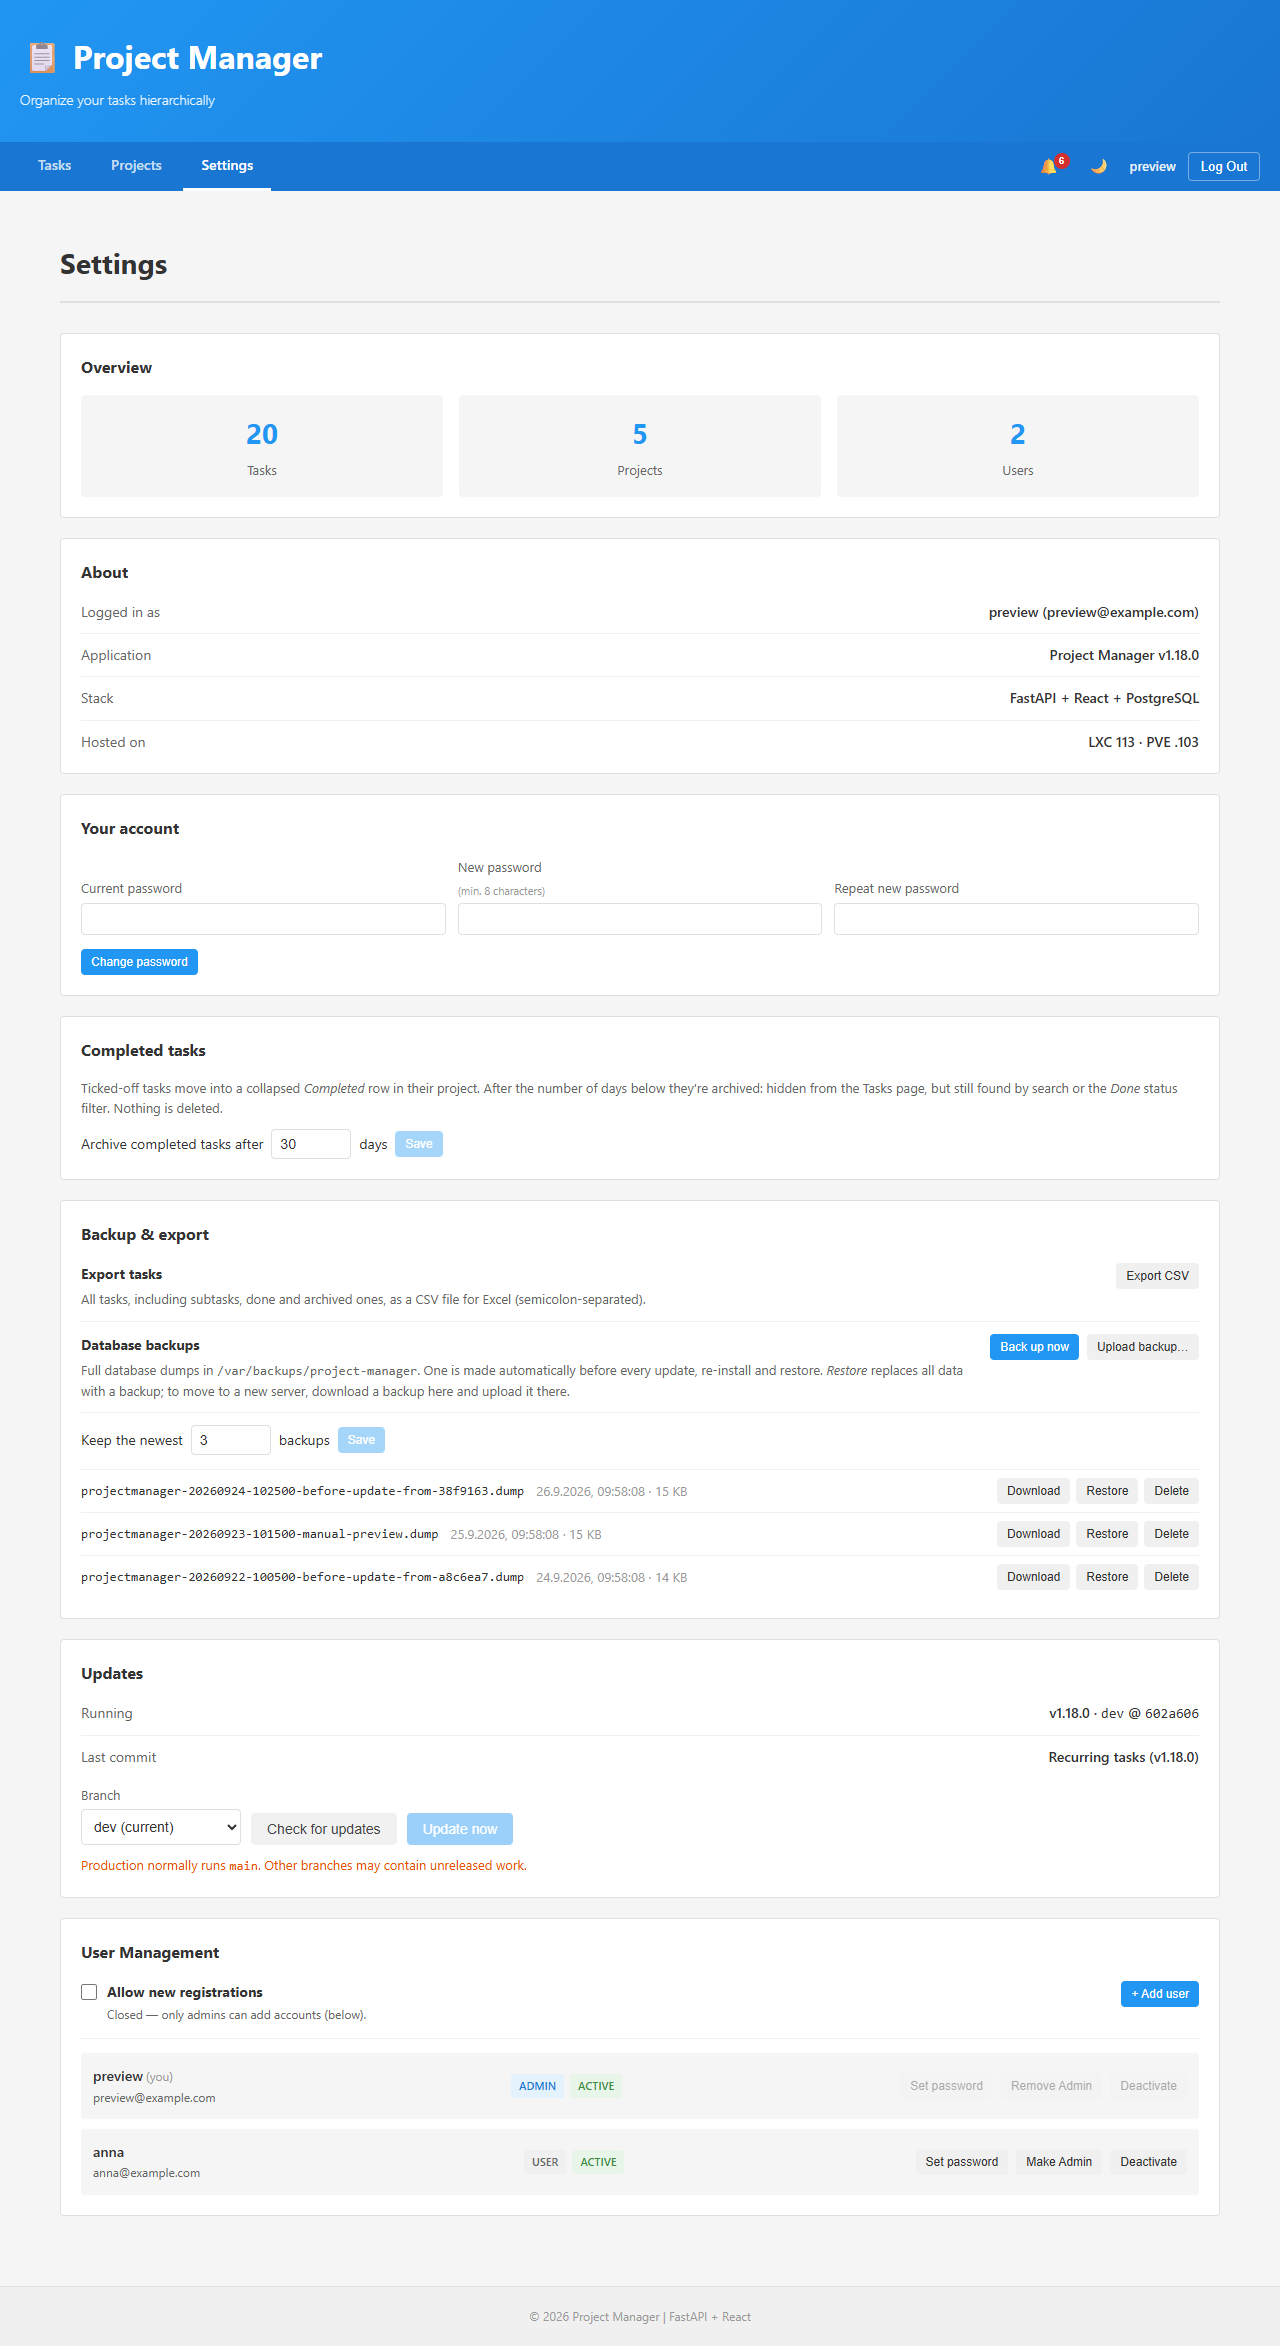
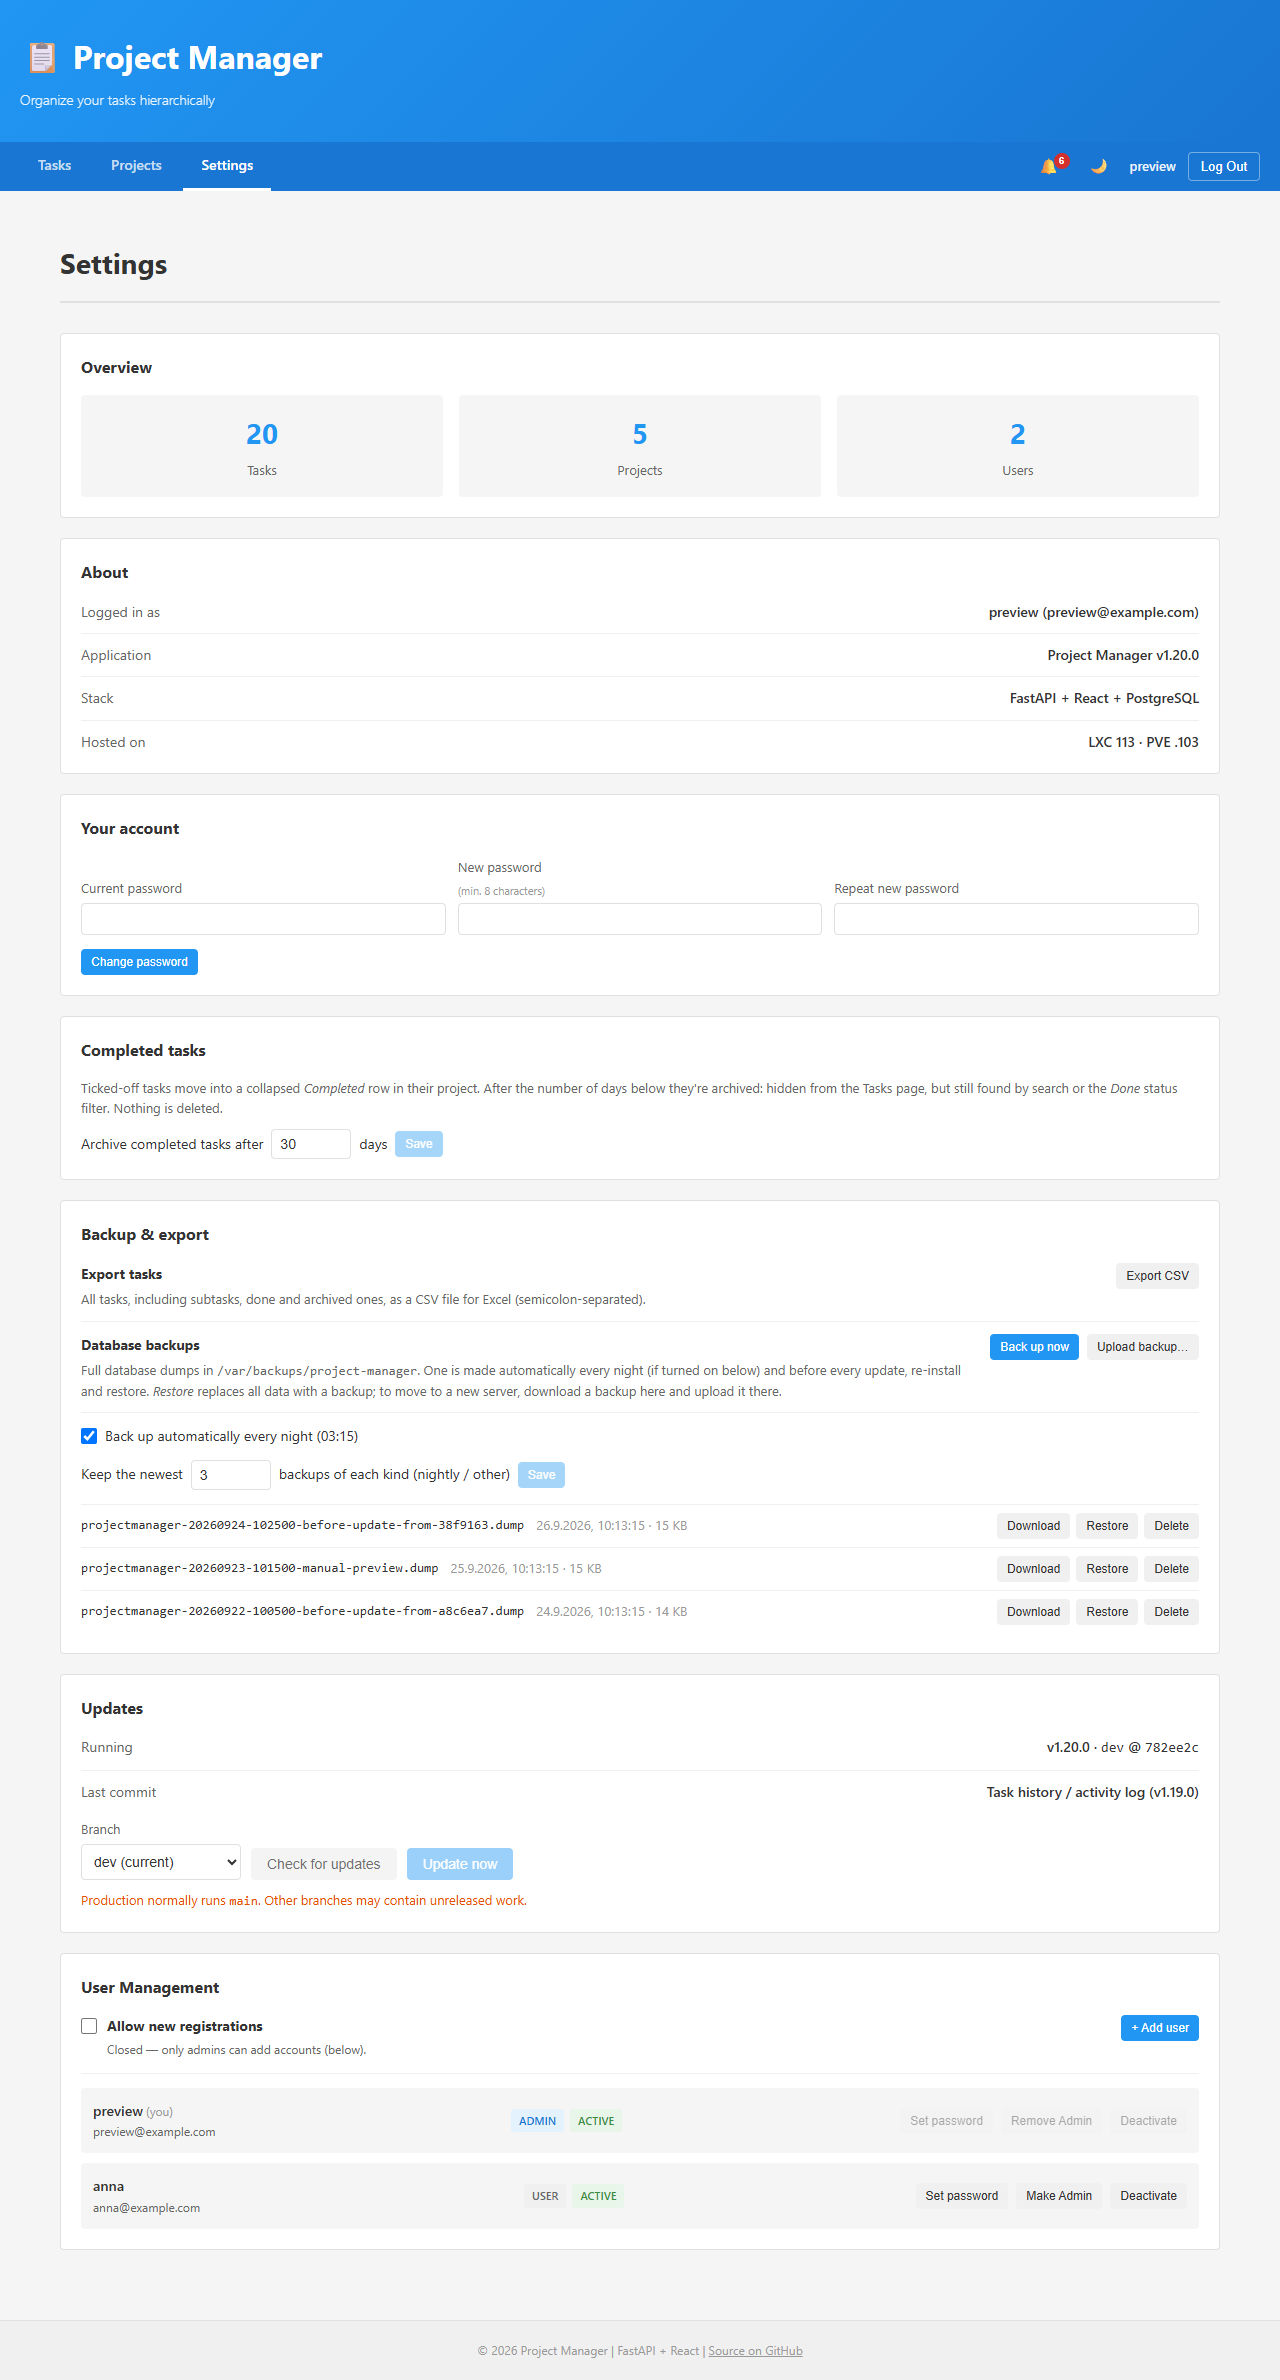
Nightly backups, repo link in footer (v1.20.0)
- backup-db.sh daily runs from /etc/cron.d/project-manager at 03:15
  (written by install.sh, kept in sync by update.sh); skipped when
  Settings -> "Back up automatically every night" is off
- Retention counts nightly and other backups separately, so nightly
  dumps never push out the pre-update backup
- install.sh installs cron; footer links to the GitHub repo
- Tests for the toggle and separate rotation; README, DEPLOYMENT,
  CHANGELOG, screenshots

diff --git a/frontend/src/components/BackupSettings.js b/frontend/src/components/BackupSettings.js
@@ -30,6 +30,7 @@ function BackupSettings() {
 
   const [keep, setKeep] = useState('');
   const [savedKeep, setSavedKeep] = useState(null);
+  const [daily, setDaily] = useState(null);
   const [backups, setBackups] = useState(null);
   const [backupDir, setBackupDir] = useState('');
   const [busy, setBusy] = useState(false);
@@ -51,6 +52,7 @@ function BackupSettings() {
       .then((d) => {
         setKeep(String(d.backup_keep));
         setSavedKeep(d.backup_keep);
+        setDaily(d.backup_daily);
       })
       .catch(() => {});
     loadBackups().catch((err) => setStatus({ ok: false, text: 'Could not list backups: ' + err.message }));
@@ -83,6 +85,19 @@ function BackupSettings() {
       setStatus({ ok: true, text: 'Saved. Applies from the next backup.' });
     });
   };
+
+  const saveDaily = (on) =>
+    run(async () => {
+      const res = await authFetch('/api/settings/', {
+        method: 'PUT',
+        headers: { 'Content-Type': 'application/json' },
+        body: JSON.stringify({ backup_daily: on }),
+      });
+      if (!res.ok) throw new Error('Could not save: ' + (await errorText(res)));
+      const d = await res.json();
+      setDaily(d.backup_daily);
+      setStatus({ ok: true, text: d.backup_daily ? 'Nightly backups are on.' : 'Nightly backups are off.' });
+    });
 
   const backupNow = () =>
     run(async () => {
@@ -179,8 +194,8 @@ function BackupSettings() {
             <div>
               <strong>Database backups</strong>
               <p className="settings-help">
-                Full database dumps in <code>{backupDir || '…'}</code>. One is made automatically before every update,
-                re-install and restore. <em>Restore</em> replaces all data with a backup; to move to a new server,
+                Full database dumps in <code>{backupDir || '…'}</code>. One is made automatically every night (if turned on below)
+                and before every update, re-install and restore. <em>Restore</em> replaces all data with a backup; to move to a new server,
                 download a backup here and upload it there.
               </p>
             </div>
@@ -205,6 +220,16 @@ function BackupSettings() {
             </div>
           </div>
 
+          <label className="backup-daily">
+            <input
+              type="checkbox"
+              checked={!!daily}
+              disabled={daily === null || busy}
+              onChange={(e) => saveDaily(e.target.checked)}
+            />
+            Back up automatically every night (03:15)
+          </label>
+
           <form className="archive-form" onSubmit={saveKeep}>
             <label htmlFor="backup-keep">Keep the newest</label>
             <input
@@ -218,7 +243,7 @@ function BackupSettings() {
               disabled={savedKeep === null}
               required
             />
-            <span>backups</span>
+            <span>backups of each kind (nightly / other)</span>
             <button type="submit" className="btn btn-primary btn-small" disabled={busy || String(savedKeep) === keep}>
               Save
             </button>

diff --git a/frontend/src/App.js b/frontend/src/App.js
@@ -10,6 +10,8 @@ import ProjectList from './components/ProjectList';
 import Settings from './components/Settings';
 import './App.css';
 
+const REPO_URL = 'https://github.com/Boisti13/project-manager';
+
 function AppShell() {
   const { currentUser } = useAuth();
 
@@ -50,7 +52,12 @@ function AppShell() {
         </Routes>
       </main>
       <footer className="App-footer">
-        <p>© 2026 Project Manager | FastAPI + React</p>
+        <p>
+          © 2026 Project Manager | FastAPI + React |{' '}
+          <a href={REPO_URL} target="_blank" rel="noopener noreferrer">
+            Source on GitHub
+          </a>
+        </p>
       </footer>
     </div>
   );

diff --git a/frontend/src/styles/Settings.css b/frontend/src/styles/Settings.css
@@ -221,3 +221,18 @@
     grid-template-columns: 1fr;
   }
 }
+
+.backup-daily {
+  display: flex;
+  align-items: center;
+  gap: 8px;
+  margin: 0 0 12px 0;
+  font-size: 14px;
+  color: var(--color-text-primary);
+  cursor: pointer;
+}
+
+.backup-daily input {
+  width: 16px;
+  height: 16px;
+}

diff --git a/frontend/src/App.css b/frontend/src/App.css
@@ -43,6 +43,15 @@ main {
   margin: 0;
 }
 
+.App-footer a {
+  color: inherit;
+  text-decoration: underline;
+}
+
+.App-footer a:hover {
+  color: var(--color-primary);
+}
+
 @media (max-width: 600px) {
   .App-header {
     padding: 10px 12px;

diff --git a/backend/tests/test_scripts.py b/backend/tests/test_scripts.py
@@ -75,6 +75,26 @@ def test_backup_retention_from_settings(client, admin, backup_dir):
     assert [n.rsplit("-", 1)[1] for n in dumps(backup_dir)] == ["b.dump"]
 
 
+def test_daily_backups_rotate_separately(client, admin, backup_dir):
+    client.put("/api/settings/", json={"backup_keep": 2}, headers=admin.headers)
+    backup("before-update")
+    for _ in range(3):
+        backup("daily")
+    backup("manual")
+    kinds = [n.rsplit("-", 1)[1] for n in dumps(backup_dir)]
+    assert sorted(kinds) == ["daily.dump", "daily.dump", "manual.dump", "update.dump"]
+
+
+def test_daily_backup_can_be_turned_off(client, admin, backup_dir):
+    assert client.get("/api/settings/", headers=admin.headers).json()["backup_daily"] is True
+    client.put("/api/settings/", json={"backup_daily": False}, headers=admin.headers)
+    rc, out = script("backup-db.sh", "daily")
+    assert rc == 0 and "turned off" in out
+    assert dumps(backup_dir) == []
+    backup("manual")  # other backups still work
+    assert len(dumps(backup_dir)) == 1
+
+
 def test_backup_fails_cleanly_with_bad_credentials(backup_dir, tmp_path):
     bad = tmp_path / "bad.env"
     bad.write_text(Path(os.environ["PM_ENV_FILE"]).read_text().replace("DB_NAME=", "DB_NAME=does_not_exist_"))

diff --git a/backend/tests/test_settings_transfer.py b/backend/tests/test_settings_transfer.py
@@ -3,7 +3,7 @@ FORMAT = "project-manager/projects"
 
 def test_settings_defaults_and_admin_only(client, admin, alice):
     assert client.get("/api/settings/", headers=alice.headers).json() == {
-        "archive_after_days": 30, "backup_keep": 3, "allow_registration": False}
+        "archive_after_days": 30, "backup_keep": 3, "backup_daily": True, "allow_registration": False}
     assert client.put("/api/settings/", json={"backup_keep": 5}, headers=alice.headers).status_code == 403
     r = client.put("/api/settings/", json={"backup_keep": 5}, headers=admin.headers).json()
     assert (r["archive_after_days"], r["backup_keep"]) == (30, 5)

diff --git a/backend/app/routers/settings.py b/backend/app/routers/settings.py
@@ -9,10 +9,11 @@ from app.models import AppSetting, User
 
 router = APIRouter()
 
-# backup_keep is also read by scripts/backup-db.sh straight from the table.
+# backup_keep and backup_daily are also read by scripts/backup-db.sh straight
+# from the table.
 # allow_registration: once an admin exists, self-registration is closed
 # unless an admin turns it on (the very first account can always register).
-DEFAULTS = {"archive_after_days": 30, "backup_keep": 3, "allow_registration": False}
+DEFAULTS = {"archive_after_days": 30, "backup_keep": 3, "backup_daily": True, "allow_registration": False}
 
 
 def _parse(default, raw: str):

diff --git a/backend/app/schemas.py b/backend/app/schemas.py
@@ -151,11 +151,13 @@ Task.model_rebuild()
 class AppSettings(BaseModel):
     archive_after_days: int = Field(ge=1, le=3650)
     backup_keep: int = Field(ge=1, le=100)
+    backup_daily: bool
     allow_registration: bool
 
 class AppSettingsUpdate(BaseModel):
     archive_after_days: Optional[int] = Field(default=None, ge=1, le=3650)
     backup_keep: Optional[int] = Field(default=None, ge=1, le=100)
+    backup_daily: Optional[bool] = None
     allow_registration: Optional[bool] = None
 
 

diff --git a/DEPLOYMENT.md b/DEPLOYMENT.md
@@ -10,7 +10,7 @@
 | FastAPI backend | Supervisor (`project-manager-backend`), Uvicorn on 127.0.0.1:8000, Python venv, settings from `backend/.env` |
 | React frontend | Static production build in `frontend/build/`, served by Nginx — no Node process at runtime |
 | Nginx | :80 — `/api/*` → backend, everything else → `frontend/build/` ([`deploy/nginx.conf`](deploy/nginx.conf)) |
-| Backups | `/var/backups/project-manager/`, newest 3 kept (see [Backups & Export](#backups--export)) |
+| Backups | `/var/backups/project-manager/`, nightly at 03:15 via `/etc/cron.d/project-manager` and before every update; newest 3 of each kind kept (see [Backups & Export](#backups--export)) |
 
 **Production runs `main`.** Ongoing work happens on `dev`, which can be tried on the live instance via Settings → Updates → *Switch to dev*; merge to `main`, tag a release (see [README.md](README.md#versioning)) and switch back when ready to ship.
 
@@ -68,6 +68,7 @@ The schema is managed by Alembic (`backend/alembic/`). The app no longer creates
 
 - before every update from **Settings → Updates** (label `before-update-from-<commit>`)
 - before migrations when `install.sh` re-runs on an existing install (`before-reinstall`)
+- **every night at 03:15** (label `daily`), from `/etc/cron.d/project-manager` — written by `install.sh` and kept up to date by every update. Turn it off (and on) with **Settings → Backup & export → Back up automatically every night**; the cron job stays and just skips. Output goes to `/var/log/project-manager-backup.log`.
 
 and on demand via **Settings → Backup & export → Back up now** (admins) or by hand:
 
@@ -75,7 +76,7 @@ and on demand via **Settings → Backup & export → Back up now** (admins) or b
 cd /opt/project-manager && scripts/backup-db.sh my-label
 ```
 
-Only the newest backups are kept — **3** by default, adjustable under **Settings → Backup & export** (stored in the `app_settings` table; the script reads it from there). Override per run with `PM_BACKUP_KEEP=10`, or the location with `PM_BACKUP_DIR=/somewhere`. The directory is `700`, each dump `600`.
+Only the newest backups are kept — **3** by default, counted **separately for nightly and all other backups** (so a week of nightly dumps never pushes out the one taken before an update), adjustable under **Settings → Backup & export** (stored in the `app_settings` table; the script reads it from there). Override per run with `PM_BACKUP_KEEP=10`, or the location with `PM_BACKUP_DIR=/somewhere`. The directory is `700`, each dump `600`.
 
 Admins can **download** any listed backup from the Settings page, to keep a copy off the server, or **delete** backups they no longer need (with confirmation; this can't be undone).
 

diff --git a/README.md b/README.md
@@ -25,7 +25,7 @@ A self-hosted task management application with hierarchical tasks (main tasks + 
 - **Assigned to me**: One click next to the search shows only your tasks, with a count of your open ones
 - **Dark Mode**: Toggle in the nav, persisted per browser, defaults to OS preference
 - **In-app Updates**: Settings shows the running version/branch/commit; anyone can check a branch for updates, admins can update or switch branches (backup, pull, migrate, rebuild the frontend, sync the Nginx config, restart) with a live log
-- **Backups & Restore**: Automatic database backup before every update; *Back up now*, download, delete, upload and one-click **restore** (with automatic safety backup and rollback) in Settings for admins; keeps the newest N (default 3). Move a whole instance to a new server by restoring a backup there — also straight from the Proxmox helper script
+- **Backups & Restore**: Automatic database backup **every night** (can be turned off) and before every update; *Back up now*, download, delete, upload and one-click **restore** (with automatic safety backup and rollback) in Settings for admins; keeps the newest N of each kind — nightly / other (default 3). Move a whole instance to a new server by restoring a backup there — also straight from the Proxmox helper script
 - **Export & Import**: Export a project (with categories, tasks, subtasks) or everything as JSON and import it into another account or installation; CSV export of all tasks for Excel — see [DEPLOYMENT.md](DEPLOYMENT.md#backups--export)
 - **Self-Hosted**: One-command install on Proxmox VE (creates the LXC for you) or into any Debian/Ubuntu LXC/VM, no Docker
 
@@ -160,7 +160,7 @@ project-manager/
 │   └── project-manager-lxc.sh # Run on the PVE host: creates an LXC and runs install.sh
 ├── scripts/
 │   ├── update.sh            # In-app updater (fetch, backup, install, migrate, build, sync nginx, restart)
-│   ├── backup-db.sh         # pg_dump to /var/backups/project-manager, keeps the newest N
+│   ├── backup-db.sh         # pg_dump to /var/backups/project-manager, keeps the newest N (also nightly via cron)
 │   ├── restore-db.sh        # Safety backup, restore, migrate; rolls back on failure
 │   └── fix-db-encoding.sh   # Converts a SQL_ASCII database to UTF-8 (older installs)
 ├── deploy/nginx.conf        # Production Nginx config (static build + /api proxy)

diff --git a/CHANGELOG.md b/CHANGELOG.md
@@ -2,6 +2,16 @@
 
 All notable changes, newest first. Versions follow [semantic versioning](README.md#versioning); each release is tagged `vX.Y.Z` on `main`.
 
+## v1.20.0 — 2026-09-26
+
+### Added
+- **Nightly database backup** at 03:15 (`/etc/cron.d/project-manager`, installed by `install.sh` and by the next update). **Settings → Backup & export → Back up automatically every night** turns it off and on (on by default); output in `/var/log/project-manager-backup.log`.
+- **Link to the source on GitHub** in the footer.
+
+### Changed
+- Backup retention counts **nightly and other backups separately** (newest N of each), so nightly dumps never push out the backup taken before an update.
+- `install.sh` also installs `cron`.
+
 ## v1.19.0 — 2026-09-26
 
 ### Added
